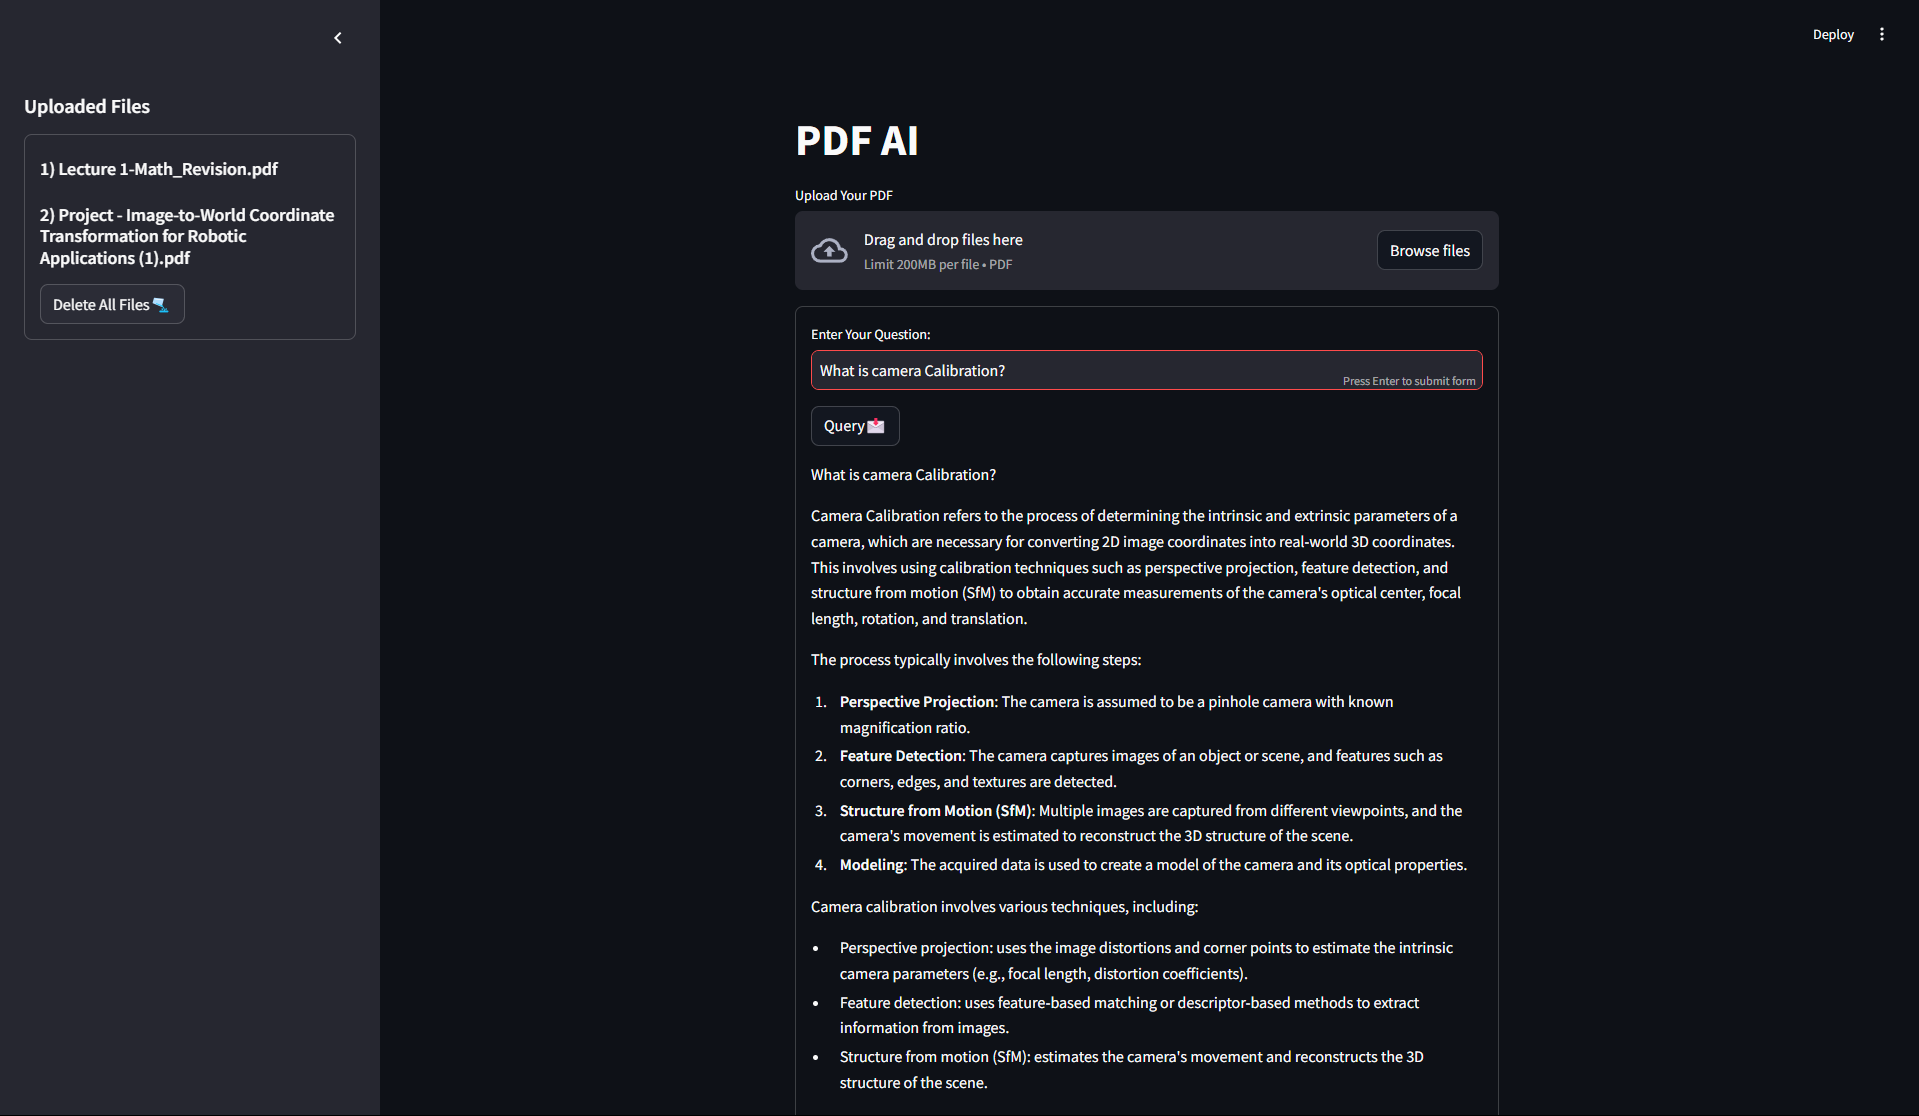
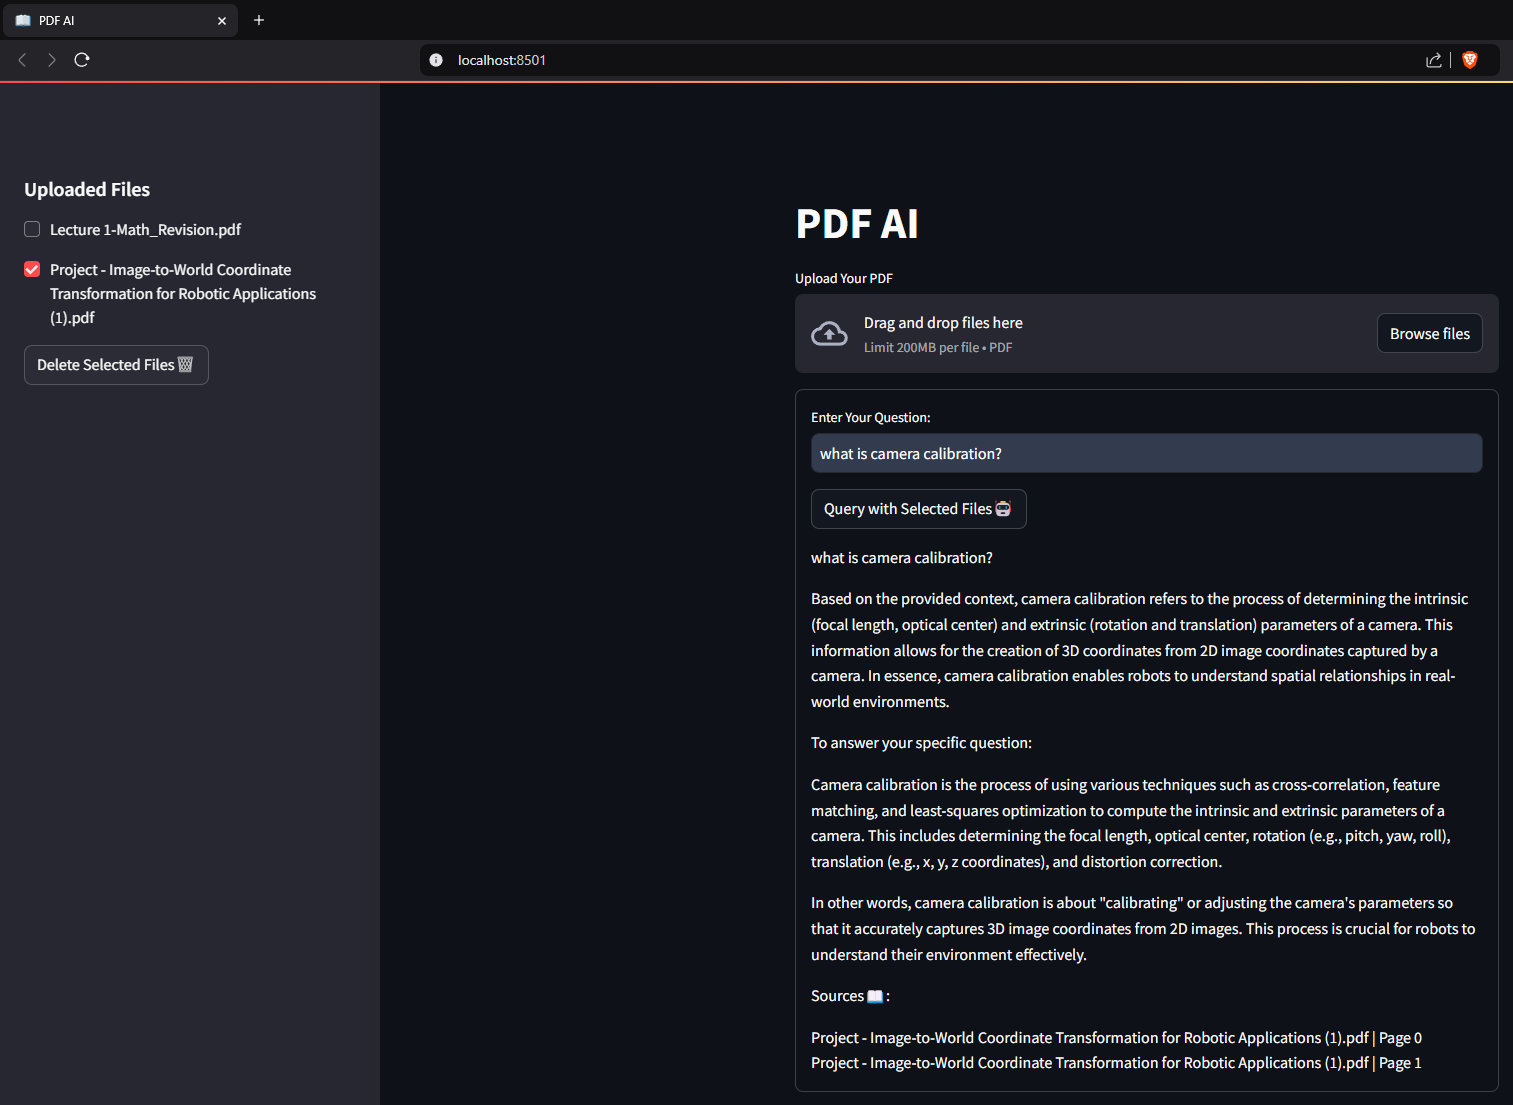
Update README and main.py for selective file management features and enhance requirements.txt

diff --git a/main.py b/main.py
@@ -98,7 +98,7 @@ with st.form("user_query_input"):
     query = st.text_input("Enter Your Question:")
 
     # Add a button to submit the query
-    if st.form_submit_button("Query🤖"):
+    if st.form_submit_button("Query with Selected Files🤖"):
         # Check if there is files selected
         if  selected_files:
             st.write(query)  # Display the user's query

diff --git a/Readme.md b/Readme.md
@@ -17,6 +17,12 @@ Inspired by [pixegami's RAG tutorial](https://github.com/pixegami/rag-tutorial-v
 - 🗃 **Optimized ChromaDB integration** for efficient vector storage and retrieval
 - 🧹 **One-click database cleanup** and document purge
 - 📖 **Source citation tracking** for answer verification
+- 🗂 **Selective file querying**: Query specific files from the database
+- 🗑 **Selective file deletion**: Delete specific files from the database and storage
+- 🔄 **Real-time file management**: Automatically update the file list in the sidebar
+- 🛠 **Enhanced error handling**: Improved error messages and handling for better debugging
+- ⚡ **Efficient chunk processing**: Optimized document chunking for faster processing
+- 🧩 **Modular code structure**: Improved maintainability and readability
 
 ---
 
@@ -49,7 +55,7 @@ Inspired by [pixegami's RAG tutorial](https://github.com/pixegami/rag-tutorial-v
 
 1. Clone the repository:
 ```bash
-git clone https://github.com/Shift118/pdf-ai-rag.git
+git clone https://github.com/Shift118/PDF-AI-RAG.git
 cd pdf-ai-rag
 ```
 
@@ -89,7 +95,7 @@ streamlit run app.py
 
 ## Technical Enhancements 🛠
 
-Compared to the original implementation:
+Compared to the original implementation (available in the [Base branch](https://github.com/Shift118/Base.git)):
 - **Streamlit Interface**: Modern web UI with real-time feedback
 - **Database Optimization**: Improved ChromaDB handling with:
   - Better persistence management
@@ -100,6 +106,8 @@ Compared to the original implementation:
   - Source citation formatting
   - Batch processing optimizations
 - **System Architecture**: Modular code structure for maintainability
+- **Selective File Management**: Added features for querying and deleting specific files
+- **Real-time Updates**: Automatically update the file list in the sidebar
 
 ---
 
